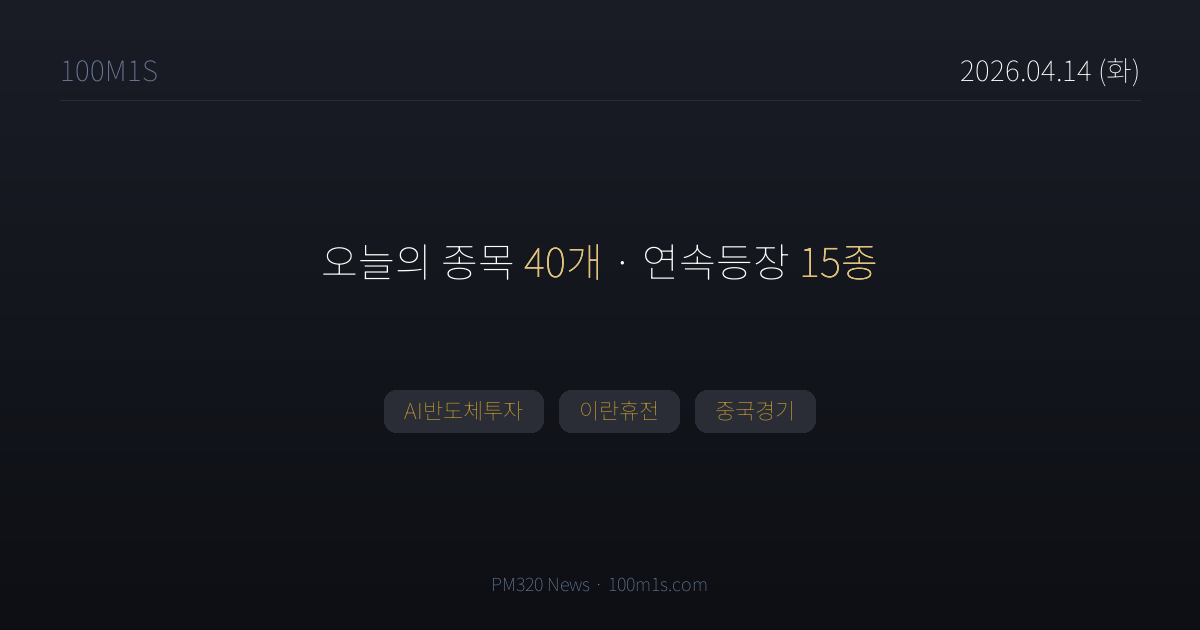
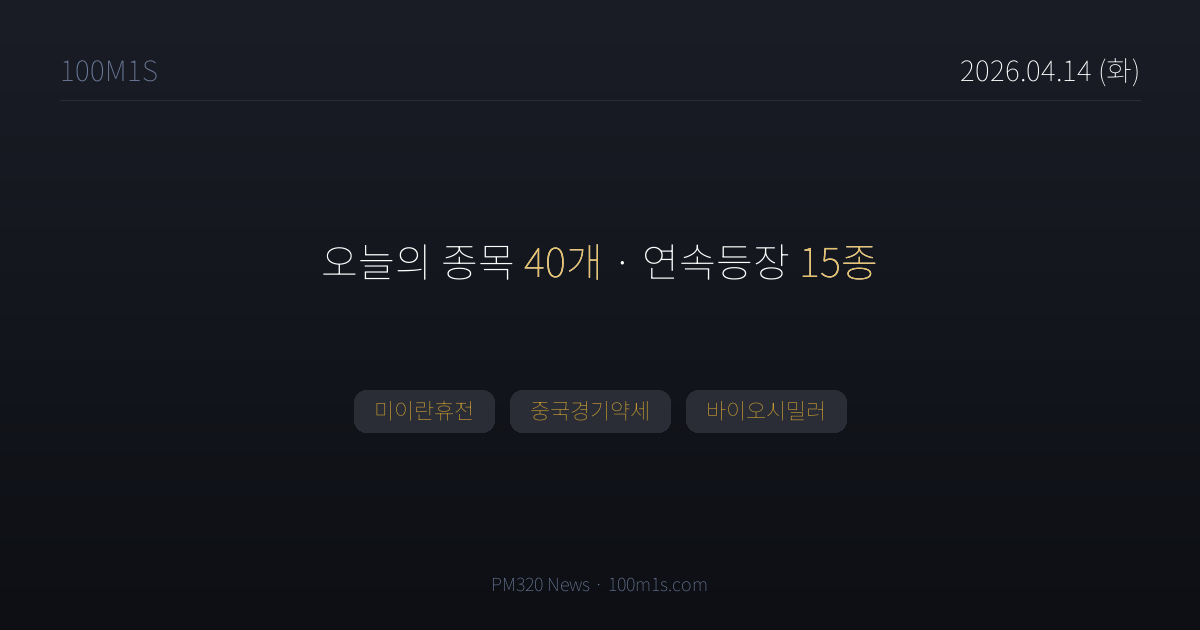
chore(news): 2026-04-14T16:12 pipeline

Changed region(s): [[0.2775, 0.6032, 0.7092, 0.6937]]

diff --git a/news/2026-04-14.html b/news/2026-04-14.html
@@ -4,7 +4,7 @@
 <meta charset="UTF-8">
 <title>4월 14일 (화) 뉴스 — 100M1S</title>
 <meta property="og:title" content="4월 14일 (화) · 종목 40개">
-<meta property="og:description" content="AI반도체투자, 이란휴전, 중국경기">
+<meta property="og:description" content="미이란휴전, 중국경기약세, 바이오시밀러">
 <meta property="og:image" content="https://100m1s.com/og/2026-04-14.png">
 <meta property="og:image:width" content="1200">
 <meta property="og:image:height" content="630">
